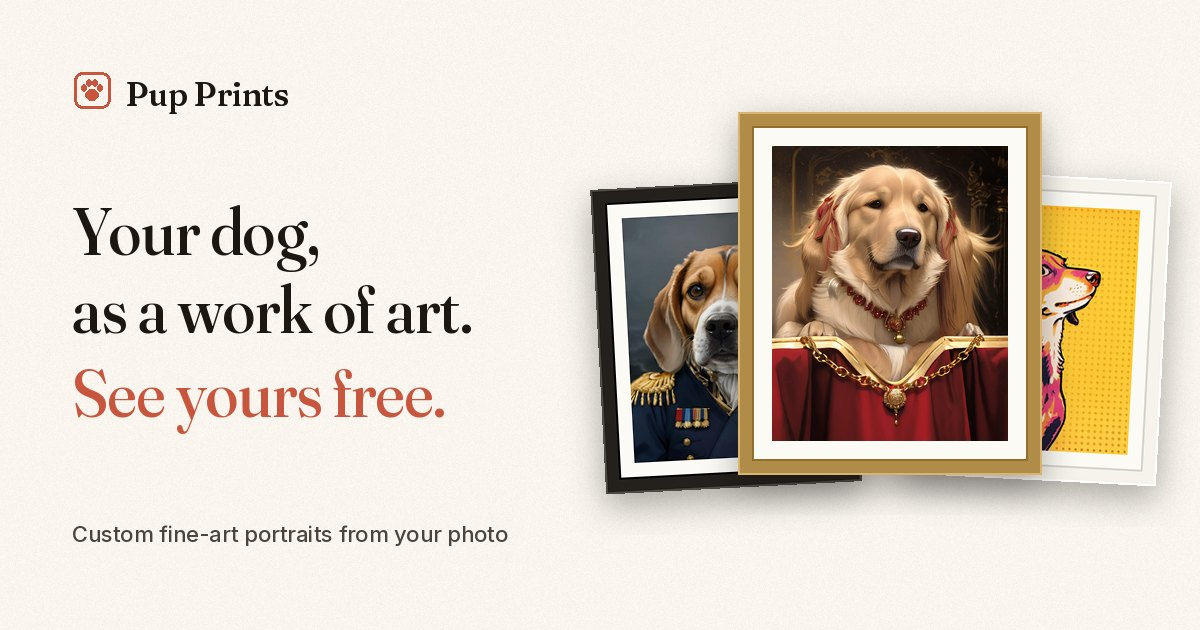
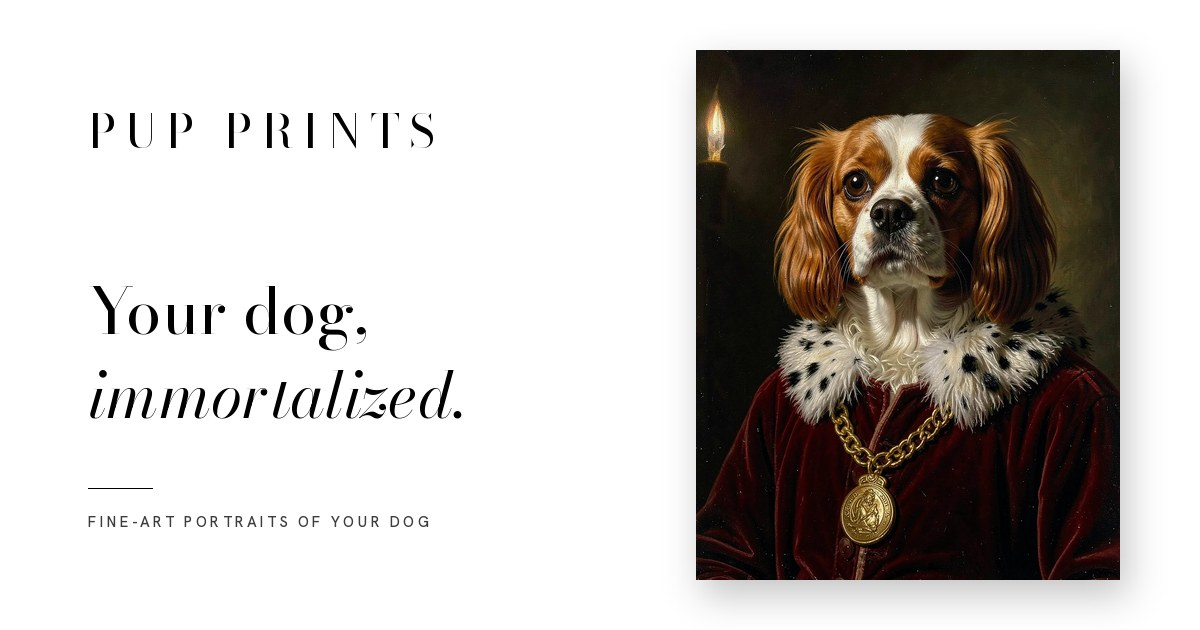
New hero portrait: FLUX.2 klein royal oil painting + regenerated OG image
royal.webp re-rendered with FLUX.2 [klein] 4B (Apache-2.0) via reference-image
editing of the real Cavalier photo, natively 960x1200, exported 1200x1500.
og-default.jpg rebuilt on white with the Bodoni Moda wordmark.

Claude-Session: https://claude.ai/code/session_01Q1G9K9iUNWePoTgYQBX8an

diff --git a/web/public/samples/CREDITS.md b/web/public/samples/CREDITS.md
@@ -1,22 +1,29 @@
 # Sample portraits: credits and provenance
 
 The images in this folder are example portraits made by our studio to show each style. They are not
-customer orders and not customer reviews. Each one is an AI image-to-image render of a real dog photo,
-reviewed by a person before it was published (anatomy, likeness, no text or watermarks).
+customer orders and not customer reviews. Each one is an AI render made from a real dog photo
+(listed below), then reviewed by a person before it was published (likeness, anatomy, no garbled
+text or jewellery, no watermarks).
 
-## How they were made
+## How they were made (current pipeline, Oct 14)
 
-- **Model:** DreamShaper 8 (`Lykon/dreamshaper-8`, a Stable Diffusion 1.5 fine-tune), run locally on CPU
-  with Hugging Face `diffusers`, img2img at 512×640, DPM++ 2M Karras, 14 steps, CFG 6, strength 0.5–0.68.
-  - License: **CreativeML OpenRAIL-M** (https://huggingface.co/Lykon/dreamshaper-8). It allows commercial
-    use of the generated images, subject to the license's use-based restrictions (none apply here).
-- **Upscaling:** Real-ESRGAN `realesr-general-x4v3` (BSD-3-Clause, https://github.com/xinntao/Real-ESRGAN),
-  blended 60/40 with a Lanczos resize, then downsampled to 960×1200 and saved as WebP (quality 82).
-- **Background masks** for the pre-composited costumes/backdrops: rembg with the U²-Net model
-  (rembg MIT, U²-Net Apache-2.0).
+- **Model:** FLUX.2 [klein] 4B (`black-forest-labs/FLUX.2-klein-4B`), run locally on CPU with Hugging Face
+  `diffusers` (`Flux2KleinPipeline`, bf16), reference-image editing: the real photo is passed as the
+  reference image and the style prompt asks for a portrait of *this exact dog*. 4 steps, guidance 1.0,
+  rendered natively at 960×1200 (reference photo at 640×800).
+  - License: **Apache-2.0** (https://huggingface.co/black-forest-labs/FLUX.2-klein-4B). Commercial use of
+    the model and of its outputs is permitted. The bundled VAE (`vae/` in the same repository) is under
+    the same Apache-2.0 license.
+- **Text encoder:** Qwen3-4B (`Qwen/Qwen3-4B`, as bundled in the FLUX.2-klein-4B repository), **Apache-2.0**
+  (https://huggingface.co/Qwen/Qwen3-4B).
+- **Finishing:** cropped 1.5% at the edges (removes the faint painted canvas edge), Lanczos resize to
+  1200×1500, light unsharp mask, WebP quality 84 (Pillow).
+- Style prompts are adapted from `STYLES[].prompt` in `web/src/lib/catalog.ts`.
 
-To regenerate these with the production pipeline (the same provider chain customers get), run
-`web/scripts/generate-samples.ts`. It reads the source photos in `web/scripts/sample-sources/`.
+Files still marked "legacy" in the table were made with the earlier pipeline: DreamShaper 8
+(`Lykon/dreamshaper-8`, CreativeML OpenRAIL-M, commercial use of outputs allowed,
+https://huggingface.co/Lykon/dreamshaper-8), img2img at 512×640, upscaled with Real-ESRGAN
+`realesr-general-x4v3` (BSD-3-Clause) to 960×1200. They are being replaced.
 
 ## Source photos
 
@@ -24,24 +31,28 @@ All source photos are from Unsplash and used under the [Unsplash License](https:
 which allows free commercial use and modification without attribution. We credit the photographers
 anyway. None are Unsplash+ photos. Local copies (4:5 crops) live in `web/scripts/sample-sources/`.
 
-| Sample file(s) | Style | Dog | Photographer | Unsplash page |
-|---|---|---|---|---|
-| royal.webp | The Royal | Cavalier King Charles Spaniel | Tracy Anderson | https://unsplash.com/photos/OktYfwY5ZQI |
-| admiral.webp, pair-3-before/after.webp | The Admiral | Beagle | Nathanaël Desmeules | https://unsplash.com/photos/527_3nFNAPo |
-| oil-classic.webp | Old Master | Labrador Retriever | Aniket Salve | https://unsplash.com/photos/IQ3FjY2Gdho |
-| watercolor.webp, pair-2-before/after.webp, gallery-2.webp | Watercolor / Pop Art | French Bulldog | Eric Tan | https://unsplash.com/photos/p6qtH9kqjt8 |
-| fine-line.webp | Fine Line | Labrador Retriever | Not identified yet (free Unsplash CDN image) | https://images.unsplash.com/photo-1761797732084-eed42f058516 |
-| pop-art.webp | Pop Art | Dachshund | Alexandre Daoust | https://unsplash.com/photos/DoMqElrLS5M |
-| storybook.webp | Storybook | Poodle / Doodle puppy | Erick Lee Hodge | https://unsplash.com/photos/U8pgck1dgtQ |
-| botanical.webp | Botanical | Cavalier King Charles Spaniel | Izabelly Marques | https://unsplash.com/photos/-d-q58LA1ds |
-| astronaut.webp, gallery-4.webp | Space Cadet / Admiral | Siberian Husky | Elin Birgisdottir | https://unsplash.com/photos/cwwwHfTytSI |
-| charcoal.webp | Charcoal Study | Border Collie | Chung Nguyen | https://unsplash.com/photos/kJlk-jW2nLI |
-| mid-century.webp, holiday.webp | Mid-Century / Holiday Cozy | Pembroke Welsh Corgi | Ivana La | https://unsplash.com/photos/tycZhR54Ddk |
-| pair-1-before/after.webp | The Royal | Golden Retriever | Faber Leonardo | https://unsplash.com/photos/ktujYJX35-E |
-| gallery-1.webp | Old Master | Golden Retriever | Victor G | https://unsplash.com/photos/x5oPmHmY3kQ |
-| gallery-3.webp | Watercolor | Cavapoo | Leiada Krözjhen | https://unsplash.com/photos/7lahRWgD2qM |
-| gallery-5.webp | Storybook | Cavalier King Charles Spaniel | Courtney Mihaka | https://unsplash.com/photos/8rdX9FraXug |
-| gallery-6.webp | Charcoal Study | Beagle (tricolour hound) | Jabez Rodarte | https://unsplash.com/photos/rxFw2zAaUi0 |
+| Sample file(s) | Style | Dog | Source photo | Photographer | Unsplash page | Pipeline |
+|---|---|---|---|---|---|---|
+| royal.webp | The Royal | Cavalier King Charles Spaniel | cavalier-2.jpg | Tracy Anderson | https://unsplash.com/photos/OktYfwY5ZQI | FLUX.2 klein |
+| admiral.webp, pair-3-before/after.webp | The Admiral | Beagle | beagle.jpg | Nathanaël Desmeules | https://unsplash.com/photos/527_3nFNAPo | legacy |
+| oil-classic.webp | Old Master | Labrador Retriever | labrador.jpg | Aniket Salve | https://unsplash.com/photos/IQ3FjY2Gdho | legacy |
+| watercolor.webp, pair-2-before/after.webp, gallery-2.webp | Watercolor / Pop Art | French Bulldog | french-bulldog.jpg | Eric Tan | https://unsplash.com/photos/p6qtH9kqjt8 | legacy |
+| fine-line.webp | Fine Line | Labrador Retriever | labrador-2.jpg | Not identified yet (free Unsplash CDN image) | https://images.unsplash.com/photo-1761797732084-eed42f058516 | legacy |
+| pop-art.webp | Pop Art | Dachshund | dachshund.jpg | Alexandre Daoust | https://unsplash.com/photos/DoMqElrLS5M | legacy |
+| storybook.webp | Storybook | Poodle / Doodle puppy | doodle-puppy.jpg | Erick Lee Hodge | https://unsplash.com/photos/U8pgck1dgtQ | legacy |
+| botanical.webp | Botanical | Cavalier King Charles Spaniel | cavalier.jpg | Izabelly Marques | https://unsplash.com/photos/-d-q58LA1ds | legacy |
+| astronaut.webp, gallery-4.webp | Space Cadet / Admiral | Siberian Husky | husky.jpg | Elin Birgisdottir | https://unsplash.com/photos/cwwwHfTytSI | legacy |
+| charcoal.webp | Charcoal Study | Border Collie | border-collie-2.jpg | Chung Nguyen | https://unsplash.com/photos/kJlk-jW2nLI | legacy |
+| mid-century.webp, holiday.webp | Mid-Century / Holiday Cozy | Pembroke Welsh Corgi | corgi.jpg | Ivana La | https://unsplash.com/photos/tycZhR54Ddk | legacy |
+| pair-1-before/after.webp | The Royal | Golden Retriever | golden-retriever.jpg | Faber Leonardo | https://unsplash.com/photos/ktujYJX35-E | legacy |
+| gallery-1.webp | Old Master | Golden Retriever | golden-retriever-2.jpg | Victor G | https://unsplash.com/photos/x5oPmHmY3kQ | legacy |
+| gallery-3.webp | Watercolor | Cavapoo | cavapoo.jpg | Leiada Krözjhen | https://unsplash.com/photos/7lahRWgD2qM | legacy |
+| gallery-5.webp | Storybook | Cavalier King Charles Spaniel | cavalier-3.jpg | Courtney Mihaka | https://unsplash.com/photos/8rdX9FraXug | legacy |
+| gallery-6.webp | Charcoal Study | Beagle (tricolour hound) | beagle-2.jpg | Jabez Rodarte | https://unsplash.com/photos/rxFw2zAaUi0 | legacy |
 
-Site-wide images made from these samples: `web/public/og-default.jpg` (uses admiral, pair-1-after and
-pop-art) and `web/public/logo.png` (brand mark only, no photo).
+## Site-wide images made from these samples
+
+- `web/public/og-default.jpg` (1200×630): royal.webp on a white page with the "PUP PRINTS" wordmark and the
+  line "Your dog, immortalized." set in Bodoni Moda, with a Hanken Grotesk label (both SIL Open Font
+  License 1.1, Google Fonts), composed with Pillow.
+- `web/public/logo.png`: brand mark only, no photo.
